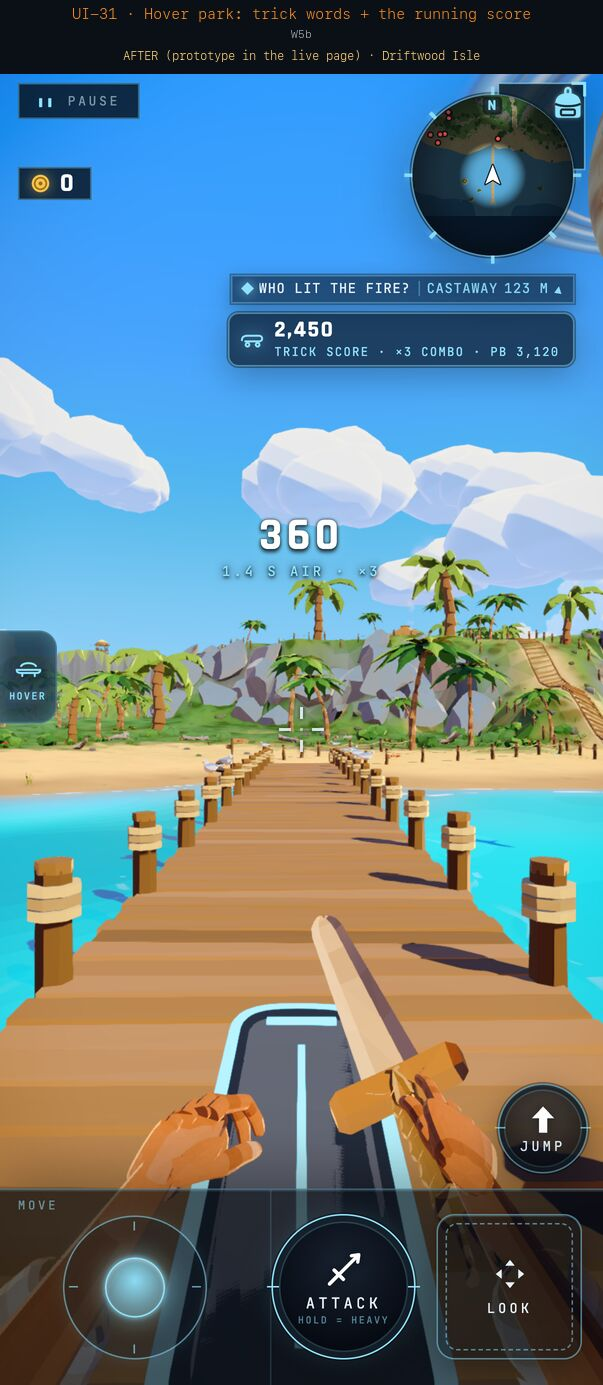
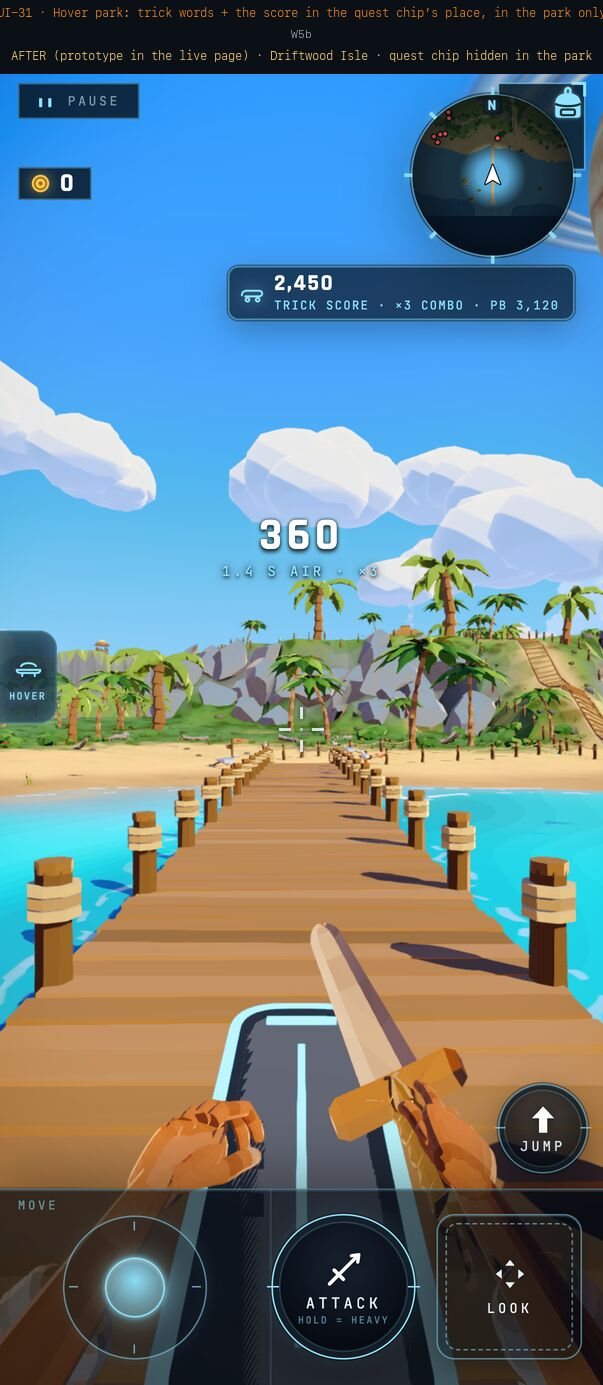
docs(kitchen-sink): trick score in quest chip slot
Jake: the hover park trick score is temporary UI like the course
clock, so it takes the quest chip's place in the park (UI-31 frame
redone for re-review). UI-03 level-up card approved. 13 approved,
25 pending.

Assisted-by: Claude-Code:claude-opus-5-5

diff --git a/art/showcase-template/round-12-ui/index.html b/art/showcase-template/round-12-ui/index.html
@@ -11,13 +11,13 @@ figcaption{font-size:11px;color:#9aa3a8;text-align:center;padding-top:3px}
 #z{position:fixed;inset:0;background:#000e;display:none;align-items:center;justify-content:center;touch-action:pinch-zoom}#z img{max-width:100vw;max-height:100vh;max-height:100dvh;width:auto;height:auto;object-fit:contain;display:block}
 </style></head><body><main><h1>Kitchen Sink v2 · every UI change, in engine</h1>
 <p>Round 12 (2026-11-03). Every frame is the real game on a phone in portrait, from a served build of main. BEFORE is the live page as it is today. AFTER is the same live page with the new element added, built from the engine's own HUD classes. Driftwood Isle's crabs, Wendell and Maren stand in for the showcase's robots and NPCs. The names and numbers are the showcase's. Nalati and Pine Hollow are used where their live component is the one the showcase extends. Only the personal-best board (a 3D sign) is a generated edit. Tap a frame to see it big.</p>
-<p>Each HUD change still needs your pick before it is built (the HUD rule). <b>Picks so far: 8 approved · 0 changes asked · 0 cut · 30 pending.</b></p>
+<p>Each HUD change still needs your pick before it is built (the HUD rule). <b>Picks so far: 13 approved · 0 changes asked · 0 cut · 25 pending.</b></p>
 <p><b>The 38, grouped by what kind of change each is:</b> 4 fight-HUD controls, 6 banners sharing one style, 3 chips sharing one slot, 3 end cards sharing one card, 5 menus, 7 small additions to existing screens, 2 world things, and 8 I'd suggest cutting (shown, not cut).</p>
 <nav class="toc"><a href="#s1">1 · New controls on the fight HUD (4)</a><a href="#s2">2 · Banners: one shared style (6)</a><a href="#s3">3 · The chip under the minimap: one at a time (3)</a><a href="#s4">4 · End cards: one shared card (3)</a><a href="#s5">5 · Menus (5)</a><a href="#s6">6 · Small additions to screens that already exist (7)</a><a href="#s7">7 · In the world, not HUD (2)</a><a href="#s8">8 · Could be cut (shown, nothing cut yet) (8)</a></nav>
 <h2 id="s1">1 · New controls on the fight HUD</h2><p>The only new things on screen all the time in a fight. Floating numbers already exist; the other three are new.</p><div class="pairs"><section class="pair"><h3><b class="st approved">APPROVED</b> UI-01 · XP bar + LV chip <span>new</span></h3><p>A thin bar on the touch bar’s top edge, &quot;LV 6&quot; and the XP at its left over MOVE. Hidden on every shard without levels.</p><p class="notes">Your notes: &quot;nice … good placement&quot;</p><div class="two"><figure><img loading="lazy" src="ui-01-xp-bar-before.jpg" alt="UI-01 before"><figcaption>BEFORE · live</figcaption></figure><figure><img loading="lazy" src="ui-01-xp-bar-after.jpg" alt="UI-01 after"><figcaption>AFTER · prototype</figcaption></figure></div></section><section class="pair"><h3><b class="st approved">APPROVED</b> UI-04 · Enemy nameplates within 25 m <span>extends Combat.ts</span></h3><p>&quot;Lv n Name&quot; in the con colour (grey, green, yellow, orange, red, skull), a stagger bar, burn / shock tint, a RARE tag. Crabs stand in for robots.</p><p class="notes">Your notes: &quot;looks good to me&quot;</p><div class="two"><figure><img loading="lazy" src="ui-04-nameplates-before.jpg" alt="UI-04 before"><figcaption>BEFORE · live</figcaption></figure><figure><img loading="lazy" src="ui-04-nameplates-after.jpg" alt="UI-04 after"><figcaption>AFTER · prototype</figcaption></figure></div></section><section class="pair"><h3><b class="st approved">APPROVED</b> UI-05 · Floating combat text <span>extends Combat.ts</span></h3><p>A big yellow crit, a small grey glance, the DEFLECT and PARRY words, red −12 and DODGE by your vitals. Six on screen, the cap.</p><p class="notes">Your notes: &quot;looks good to me&quot;</p><div class="two"><figure><img loading="lazy" src="ui-05-floating-text-before.jpg" alt="UI-05 before"><figcaption>BEFORE · live</figcaption></figure><figure><img loading="lazy" src="ui-05-floating-text-after.jpg" alt="UI-05 after"><figcaption>AFTER · prototype</figcaption></figure></div></section><section class="pair"><h3><b class="st approved">APPROVED</b> UI-06 · GUARD button (D6) <span>new</span></h3><p>Four in a row: GUARD · LOCK · DODGE · JUMP, GUARD in the slot the spear’s THROW takes, only while the sword is held; its rim lights in the parry window.</p><p class="notes">Your notes: &quot;I think that's okay&quot;; then &quot;four in a row, approved&quot;: GUARD · LOCK · DODGE · JUMP, GUARD in the slot the spear's THROW takes (frame redone)</p><div class="two"><figure><img loading="lazy" src="ui-06-guard-button-before.jpg" alt="UI-06 before"><figcaption>BEFORE · live</figcaption></figure><figure><img loading="lazy" src="ui-06-guard-button-after.jpg" alt="UI-06 after"><figcaption>AFTER · prototype</figcaption></figure></div></section></div>
-<h2 id="s2">2 · Banners: one shared style</h2><p>Short messages across the screen that never block play. Built once, filled in by six moments.</p><div class="pairs"><section class="pair"><h3><b class="st approved">APPROVED</b> UI-02 · Level-up in a fight <span>new</span></h3><p>Never blocks: a ring off the chip, the chip flips to LV 7, one gain line above it, HP refilled (VITALS 31 → 179).</p><p class="notes">Your notes: &quot;Yeah, sure&quot;</p><div class="two"><figure><img loading="lazy" src="ui-02-levelup-fight-before.jpg" alt="UI-02 before"><figcaption>BEFORE · live</figcaption></figure><figure><img loading="lazy" src="ui-02-levelup-fight-after.jpg" alt="UI-02 after"><figcaption>AFTER · prototype</figcaption></figure></div></section><section class="pair"><h3><b class="st approved">APPROVED</b> UI-07 · Named elite: NAMED ELITE · LV 6 <span>extends EliteBar</span></h3><p>Nalati’s real banner and pinned bar, with the showcase’s Big Pallet and an LV tag.</p><p class="notes">Your notes: &quot;looks very similar … nice&quot;</p><div class="two"><figure><img loading="lazy" src="ui-07-elite-banner-before.jpg" alt="UI-07 before"><figcaption>BEFORE · live</figcaption></figure><figure><img loading="lazy" src="ui-07-elite-banner-after.jpg" alt="UI-07 after"><figcaption>AFTER · prototype</figcaption></figure></div></section><section class="pair"><h3><b class="st pending">PENDING</b> UI-24 · Gauntlet wave banner <span>new</span></h3><p>WAVE 2 / 5 big in the middle as a wave starts, in the boundary warning’s type, fading after ~2 s. Nothing stays on screen.</p><p class="notes">Your notes: 2026-11-03, redone for re-review (WAVE 2 / 5 in the middle only, fades; no chip): keep &quot;WAVE 2 / 5&quot; big in the middle of the screen when a wave starts (&quot;kind of cool&quot;); drop the wave chip that stays under the quest chip: &quot;too fucking busy … we can't have those permanent banners&quot;</p><div class="two"><figure><img loading="lazy" src="ui-24-wave-banner-before.jpg" alt="UI-24 before"><figcaption>BEFORE · live</figcaption></figure><figure><img loading="lazy" src="ui-24-wave-banner-after.jpg" alt="UI-24 after"><figcaption>AFTER · prototype</figcaption></figure></div></section><section class="pair"><h3><b class="st approved">APPROVED</b> UI-26 · Boss intro title card <span>content only</span></h3><p>The real letterbox, name card and HOLD TO SKIP ring: THE CRATE TITAN · LV 20.</p><p class="notes">Your notes: &quot;fine … looks fine&quot;</p><div class="two"><figure><img loading="lazy" src="ui-26-cutscene-card-before.jpg" alt="UI-26 before"><figcaption>BEFORE · live</figcaption></figure><figure><img loading="lazy" src="ui-26-cutscene-card-after.jpg" alt="UI-26 after"><figcaption>AFTER · prototype</figcaption></figure></div></section><section class="pair"><h3><b class="st pending">PENDING</b> UI-22 · Storm hour <span>the wave banner’s line</span></h3><p>One centred line as the hour starts, fading after ~2 s; lighting a beacon flashes BEACON 2 / 4 the same way. No minimap beacons, no toast; the storm chip is today’s.</p><p class="notes">Your notes: 2026-11-03, redone for re-review: &quot;way too busy … the beacons on the minimap is way too busy … a really more minimalist, lightweight&quot; one; now one centred STORM HOUR line that fades, no minimap beacons, no toast, the storm chip unchanged</p><div class="two"><figure><img loading="lazy" src="ui-22-storm-hour-before.jpg" alt="UI-22 before"><figcaption>BEFORE · live</figcaption></figure><figure><img loading="lazy" src="ui-22-storm-hour-after.jpg" alt="UI-22 after"><figcaption>AFTER · prototype</figcaption></figure></div></section><section class="pair"><h3><b class="st approved">APPROVED</b> UI-17 · Checkpoint card (QC6) <span>new</span></h3><p>A quest leg done and saved: the reward caption’s type with a CHECKPOINT SAVED tick.</p><p class="notes">Your notes: &quot;Yeah, cool. Let's do it.&quot;</p><div class="two"><figure><img loading="lazy" src="ui-17-checkpoint-card-before.jpg" alt="UI-17 before"><figcaption>BEFORE · live</figcaption></figure><figure><img loading="lazy" src="ui-17-checkpoint-card-after.jpg" alt="UI-17 after"><figcaption>AFTER · prototype</figcaption></figure></div></section></div>
-<h2 id="s3">3 · The chip under the minimap: one at a time</h2><p>A single timer or counter slot that shows only during a run. Built once; this also settles the crowded slot.</p><div class="pairs"><section class="pair"><h3><b class="st pending">PENDING</b> UI-20 · Course clock chip (D22) <span>reuses the weather chip</span></h3><p>Only during a run, in the quest chip’s place (the quest chip hides and comes back when the run ends): time, checkpoint, PB.</p><p class="notes">Your notes: 2026-11-03, redone for re-review: &quot;it can hide the quest chip whilst it's showing the course clock … when we're done … show the quest chip again … not be so busy&quot;; the clock now takes the quest chip's place</p><div class="two"><figure><img loading="lazy" src="ui-20-course-clock-before.jpg" alt="UI-20 before"><figcaption>BEFORE · live</figcaption></figure><figure><img loading="lazy" src="ui-20-course-clock-after.jpg" alt="UI-20 after"><figcaption>AFTER · prototype</figcaption></figure></div></section><section class="pair"><h3><b class="st pending">PENDING</b> UI-29 · Training Vault sealed room <span>new</span></h3><p>ROOM 2/4 · 3 left, and the seal toast.</p><p class="notes">Your notes: &quot;way too busy … hide the rest of the quest … a dungeon specific quest chip, but like just one … I need new ideas&quot;. Options board ui-29-board.jpg: A the vault's own quest chip (recommended), B nothing stays (ROOM 2 / 4 flashes), C room pips only</p><div class="two"><figure><img loading="lazy" src="ui-29-vault-room-before.jpg" alt="UI-29 before"><figcaption>BEFORE · live</figcaption></figure><figure><img loading="lazy" src="ui-29-vault-room-after.jpg" alt="UI-29 after"><figcaption>AFTER · prototype</figcaption></figure></div><p class="notes">New options (A · B · C), all hiding the tracked quest inside the vault:</p><figure><img loading="lazy" src="ui-29-board.jpg" alt="UI-29 options"><figcaption>A · the vault’s own quest chip · B · nothing stays · C · room pips only</figcaption></figure></section><section class="pair"><h3><b class="st pending">PENDING</b> UI-31 · Hover park trick score <span>new</span></h3><p>A trick word over the board and the running score chip.</p><div class="two"><figure><img loading="lazy" src="ui-31-trick-score-before.jpg" alt="UI-31 before"><figcaption>BEFORE · live</figcaption></figure><figure><img loading="lazy" src="ui-31-trick-score-after.jpg" alt="UI-31 after"><figcaption>AFTER · prototype</figcaption></figure></div></section></div>
-<h2 id="s4">4 · End cards: one shared card</h2><p>A full card after something finishes, only out of combat.</p><div class="pairs"><section class="pair"><h3><b class="st pending">PENDING</b> UI-03 · Level-up card, out of combat <span>new</span></h3><p>After 5 s calm: each gain ticks up in turn, gold on a big roll, grey on +0, TAP TO SKIP.</p><div class="two"><figure><img loading="lazy" src="ui-03-levelup-card-before.jpg" alt="UI-03 before"><figcaption>BEFORE · live</figcaption></figure><figure><img loading="lazy" src="ui-03-levelup-card-after.jpg" alt="UI-03 after"><figcaption>AFTER · prototype</figcaption></figure></div></section><section class="pair"><h3><b class="st pending">PENDING</b> UI-19 · Shard-complete card <span>content only</span></h3><p>The real card with the Titan Cleaver and the showcase’s stats.</p><div class="two"><figure><img loading="lazy" src="ui-19-shard-complete-before.jpg" alt="UI-19 before"><figcaption>BEFORE · live</figcaption></figure><figure><img loading="lazy" src="ui-19-shard-complete-after.jpg" alt="UI-19 after"><figcaption>AFTER · prototype</figcaption></figure></div></section><section class="pair"><h3><b class="st pending">PENDING</b> UI-30 · SHRINE COMPLETE card <span>reuses the complete card</span></h3><p>Time, best, deaths, rooms, the chest and the trophy.</p><div class="two"><figure><img loading="lazy" src="ui-30-shrine-complete-before.jpg" alt="UI-30 before"><figcaption>BEFORE · live</figcaption></figure><figure><img loading="lazy" src="ui-30-shrine-complete-after.jpg" alt="UI-30 after"><figcaption>AFTER · prototype</figcaption></figure></div></section></div>
+<h2 id="s2">2 · Banners: one shared style</h2><p>Short messages across the screen that never block play. Built once, filled in by six moments.</p><div class="pairs"><section class="pair"><h3><b class="st approved">APPROVED</b> UI-02 · Level-up in a fight <span>new</span></h3><p>Never blocks: a ring off the chip, the chip flips to LV 7, one gain line above it, HP refilled (VITALS 31 → 179).</p><p class="notes">Your notes: &quot;Yeah, sure&quot;</p><div class="two"><figure><img loading="lazy" src="ui-02-levelup-fight-before.jpg" alt="UI-02 before"><figcaption>BEFORE · live</figcaption></figure><figure><img loading="lazy" src="ui-02-levelup-fight-after.jpg" alt="UI-02 after"><figcaption>AFTER · prototype</figcaption></figure></div></section><section class="pair"><h3><b class="st approved">APPROVED</b> UI-07 · Named elite: NAMED ELITE · LV 6 <span>extends EliteBar</span></h3><p>Nalati’s real banner and pinned bar, with the showcase’s Big Pallet and an LV tag.</p><p class="notes">Your notes: &quot;looks very similar … nice&quot;</p><div class="two"><figure><img loading="lazy" src="ui-07-elite-banner-before.jpg" alt="UI-07 before"><figcaption>BEFORE · live</figcaption></figure><figure><img loading="lazy" src="ui-07-elite-banner-after.jpg" alt="UI-07 after"><figcaption>AFTER · prototype</figcaption></figure></div></section><section class="pair"><h3><b class="st approved">APPROVED</b> UI-24 · Gauntlet wave banner <span>new</span></h3><p>WAVE 2 / 5 big in the middle as a wave starts, in the boundary warning’s type, fading after ~2 s. Nothing stays on screen.</p><p class="notes">Your notes: redone frame approved, &quot;UI 24 looks good&quot; (WAVE 2 / 5 in the middle only, fades; no chip). First round: keep &quot;WAVE 2 / 5&quot; big in the middle of the screen when a wave starts (&quot;kind of cool&quot;); drop the wave chip that stays under the quest chip: &quot;too fucking busy … we can't have those permanent banners&quot;</p><div class="two"><figure><img loading="lazy" src="ui-24-wave-banner-before.jpg" alt="UI-24 before"><figcaption>BEFORE · live</figcaption></figure><figure><img loading="lazy" src="ui-24-wave-banner-after.jpg" alt="UI-24 after"><figcaption>AFTER · prototype</figcaption></figure></div></section><section class="pair"><h3><b class="st approved">APPROVED</b> UI-26 · Boss intro title card <span>content only</span></h3><p>The real letterbox, name card and HOLD TO SKIP ring: THE CRATE TITAN · LV 20.</p><p class="notes">Your notes: &quot;fine … looks fine&quot;</p><div class="two"><figure><img loading="lazy" src="ui-26-cutscene-card-before.jpg" alt="UI-26 before"><figcaption>BEFORE · live</figcaption></figure><figure><img loading="lazy" src="ui-26-cutscene-card-after.jpg" alt="UI-26 after"><figcaption>AFTER · prototype</figcaption></figure></div></section><section class="pair"><h3><b class="st approved">APPROVED</b> UI-22 · Storm hour <span>the wave banner’s line</span></h3><p>One centred line as the hour starts, fading after ~2 s; lighting a beacon flashes BEACON 2 / 4 the same way. No minimap beacons, no toast; the storm chip is today’s.</p><p class="notes">Your notes: redone frame approved, &quot;UI 22 looks good&quot;. First round: &quot;way too busy … the beacons on the minimap is way too busy … a really more minimalist, lightweight&quot; one; now one centred STORM HOUR line that fades, no minimap beacons, no toast, the storm chip unchanged</p><div class="two"><figure><img loading="lazy" src="ui-22-storm-hour-before.jpg" alt="UI-22 before"><figcaption>BEFORE · live</figcaption></figure><figure><img loading="lazy" src="ui-22-storm-hour-after.jpg" alt="UI-22 after"><figcaption>AFTER · prototype</figcaption></figure></div></section><section class="pair"><h3><b class="st approved">APPROVED</b> UI-17 · Checkpoint card (QC6) <span>new</span></h3><p>A quest leg done and saved: the reward caption’s type with a CHECKPOINT SAVED tick.</p><p class="notes">Your notes: &quot;Yeah, cool. Let's do it.&quot;</p><div class="two"><figure><img loading="lazy" src="ui-17-checkpoint-card-before.jpg" alt="UI-17 before"><figcaption>BEFORE · live</figcaption></figure><figure><img loading="lazy" src="ui-17-checkpoint-card-after.jpg" alt="UI-17 after"><figcaption>AFTER · prototype</figcaption></figure></div></section></div>
+<h2 id="s3">3 · The chip under the minimap: one at a time</h2><p>A single timer or counter slot that shows only during a run. Built once; this also settles the crowded slot.</p><div class="pairs"><section class="pair"><h3><b class="st approved">APPROVED</b> UI-20 · Course clock chip (D22) <span>reuses the weather chip</span></h3><p>Only during a run, in the quest chip’s place (the quest chip hides and comes back when the run ends): time, checkpoint, PB.</p><p class="notes">Your notes: redone frame approved, &quot;UI 20 looks good&quot;. First round: &quot;it can hide the quest chip whilst it's showing the course clock … when we're done … show the quest chip again … not be so busy&quot;; the clock now takes the quest chip's place</p><div class="two"><figure><img loading="lazy" src="ui-20-course-clock-before.jpg" alt="UI-20 before"><figcaption>BEFORE · live</figcaption></figure><figure><img loading="lazy" src="ui-20-course-clock-after.jpg" alt="UI-20 after"><figcaption>AFTER · prototype</figcaption></figure></div></section><section class="pair"><h3><b class="st approved">APPROVED</b> UI-29 · Training Vault sealed room <span>new</span></h3><p>Picked A: inside the vault the tracked quest hides and one chip takes its place, TRAINING VAULT | ROOM 2/4 · 3 LEFT; the quest chip comes back when you leave.</p><p class="notes">Your notes: &quot;way too busy … hide the rest of the quest … a dungeon specific quest chip, but like just one … I need new ideas&quot;; then &quot;we can pick A for the UI 29, the vault stuff&quot;. **A:** inside the vault the tracked quest hides and one chip takes its place, TRAINING VAULT · ROOM 2/4 · 3 LEFT; the quest chip comes back on leaving (ui-29-opt-a.jpg)</p><div class="two"><figure><img loading="lazy" src="ui-29-vault-room-before.jpg" alt="UI-29 before"><figcaption>BEFORE · live</figcaption></figure><figure><img loading="lazy" src="ui-29-opt-a.jpg" alt="UI-29 after"><figcaption>AFTER · prototype</figcaption></figure></div><p class="notes">The options you chose from (you picked A):</p><figure><img loading="lazy" src="ui-29-board.jpg" alt="UI-29 options"><figcaption>A · the vault’s own quest chip · B · nothing stays · C · room pips only</figcaption></figure></section><section class="pair"><h3><b class="st pending">PENDING</b> UI-31 · Hover park trick score <span>new</span></h3><p>A trick word over the board; the running score takes the quest chip’s place while you’re in the park.</p><p class="notes">Your notes: 2026-11-03, redone for re-review: &quot;the same kind of temporary UI … the timed racing … when we show that kind of UI, we want to hide the normal quest UI … make it tidier&quot;; the trick score now takes the quest chip's place in the park</p><div class="two"><figure><img loading="lazy" src="ui-31-trick-score-before.jpg" alt="UI-31 before"><figcaption>BEFORE · live</figcaption></figure><figure><img loading="lazy" src="ui-31-trick-score-after.jpg" alt="UI-31 after"><figcaption>AFTER · prototype</figcaption></figure></div></section></div>
+<h2 id="s4">4 · End cards: one shared card</h2><p>A full card after something finishes, only out of combat.</p><div class="pairs"><section class="pair"><h3><b class="st approved">APPROVED</b> UI-03 · Level-up card, out of combat <span>new</span></h3><p>After 5 s calm: each gain ticks up in turn, gold on a big roll, grey on +0, TAP TO SKIP.</p><p class="notes">Your notes: &quot;UI 03 looks good to me&quot;</p><div class="two"><figure><img loading="lazy" src="ui-03-levelup-card-before.jpg" alt="UI-03 before"><figcaption>BEFORE · live</figcaption></figure><figure><img loading="lazy" src="ui-03-levelup-card-after.jpg" alt="UI-03 after"><figcaption>AFTER · prototype</figcaption></figure></div></section><section class="pair"><h3><b class="st pending">PENDING</b> UI-19 · Shard-complete card <span>content only</span></h3><p>The real card with the Titan Cleaver and the showcase’s stats.</p><div class="two"><figure><img loading="lazy" src="ui-19-shard-complete-before.jpg" alt="UI-19 before"><figcaption>BEFORE · live</figcaption></figure><figure><img loading="lazy" src="ui-19-shard-complete-after.jpg" alt="UI-19 after"><figcaption>AFTER · prototype</figcaption></figure></div></section><section class="pair"><h3><b class="st pending">PENDING</b> UI-30 · SHRINE COMPLETE card <span>reuses the complete card</span></h3><p>Time, best, deaths, rooms, the chest and the trophy.</p><div class="two"><figure><img loading="lazy" src="ui-30-shrine-complete-before.jpg" alt="UI-30 before"><figcaption>BEFORE · live</figcaption></figure><figure><img loading="lazy" src="ui-30-shrine-complete-after.jpg" alt="UI-30 after"><figcaption>AFTER · prototype</figcaption></figure></div></section></div>
 <h2 id="s5">5 · Menus</h2><p>Screens you open. Two extend an existing shop screen, one extends Pine’s board.</p><div class="pairs"><section class="pair"><h3><b class="st pending">PENDING</b> UI-10 · Character tab (read-only) <span>new tab</span></h3><p>Bag ▸ CHARACTER: level and XP, the seven attributes against par, ▲▼ aptitude, what each does, the derived numbers.</p><div class="two"><figure><img loading="lazy" src="ui-10-character-tab-before.jpg" alt="UI-10 before"><figcaption>BEFORE · live</figcaption></figure><figure><img loading="lazy" src="ui-10-character-tab-after.jpg" alt="UI-10 after"><figcaption>AFTER · prototype</figcaption></figure></div></section><section class="pair"><h3><b class="st pending">PENDING</b> UI-14 · Quest list on the map tab (D13, D14) <span>new</span></h3><p>All twelve active, one tracked (feeds the HUD chip), the tracked quest’s card under the list.</p><div class="two"><figure><img loading="lazy" src="ui-14-quest-list-before.jpg" alt="UI-14 before"><figcaption>BEFORE · live</figcaption></figure><figure><img loading="lazy" src="ui-14-quest-list-after.jpg" alt="UI-14 after"><figcaption>AFTER · prototype</figcaption></figure></div></section><section class="pair"><h3><b class="st pending">PENDING</b> UI-16 · Kill-contract board, fixed mode <span>extends Pine’s board</span></h3><p>Level-locked rows, first-time trophy and joke title.</p><div class="two"><figure><img loading="lazy" src="ui-16-contract-board-before.jpg" alt="UI-16 before"><figcaption>BEFORE · live</figcaption></figure><figure><img loading="lazy" src="ui-16-contract-board-after.jpg" alt="UI-16 after"><figcaption>AFTER · prototype</figcaption></figure></div></section><section class="pair"><h3><b class="st pending">PENDING</b> UI-32 · Tinker Rook: UPGRADES / BENCH <span>extends ShopPanel</span></h3><p>Two tabs, Scrip and parts on every tile, LV tags and locks.</p><div class="two"><figure><img loading="lazy" src="ui-32-upgrades-bench-before.jpg" alt="UI-32 before"><figcaption>BEFORE · live</figcaption></figure><figure><img loading="lazy" src="ui-32-upgrades-bench-after.jpg" alt="UI-32 after"><figcaption>AFTER · prototype</figcaption></figure></div></section><section class="pair"><h3><b class="st pending">PENDING</b> UI-33 · The weapons shop <span>extends ShopPanel</span></h3><p>Weapons bought, locked by level (the rifle at LV 10).</p><div class="two"><figure><img loading="lazy" src="ui-33-weapons-shop-before.jpg" alt="UI-33 before"><figcaption>BEFORE · live</figcaption></figure><figure><img loading="lazy" src="ui-33-weapons-shop-after.jpg" alt="UI-33 after"><figcaption>AFTER · prototype</figcaption></figure></div></section></div>
 <h2 id="s6">6 · Small additions to screens that already exist</h2><p>A line, a number or a label on something already in the game. No new control.</p><div class="pairs"><section class="pair"><h3><b class="st pending">PENDING</b> UI-13 · REQUIRES LV 7 in the dialogue <span>extends the talk panel</span></h3><p>The real dialogue panel with a quest row and a locked accept button.</p><div class="two"><figure><img loading="lazy" src="ui-13-requires-level-before.jpg" alt="UI-13 before"><figcaption>BEFORE · live</figcaption></figure><figure><img loading="lazy" src="ui-13-requires-level-after.jpg" alt="UI-13 after"><figcaption>AFTER · prototype</figcaption></figure></div></section><section class="pair"><h3><b class="st pending">PENDING</b> UI-09 · Death card + XP loss <span>extends DeathFade</span></h3><p>The same card with one more line: −340 XP, 25 % of level 7, never below level 7.</p><div class="two"><figure><img loading="lazy" src="ui-09-death-card-before.jpg" alt="UI-09 before"><figcaption>BEFORE · live</figcaption></figure><figure><img loading="lazy" src="ui-09-death-card-after.jpg" alt="UI-09 after"><figcaption>AFTER · prototype</figcaption></figure></div></section><section class="pair"><h3><b class="st pending">PENDING</b> UI-34 · The 20-slot pack <span>extends PACK</span></h3><p>One slot a kind, never full; unfound kinds as dashed silhouettes.</p><div class="two"><figure><img loading="lazy" src="ui-34-pack-20-before.jpg" alt="UI-34 before"><figcaption>BEFORE · live</figcaption></figure><figure><img loading="lazy" src="ui-34-pack-20-after.jpg" alt="UI-34 after"><figcaption>AFTER · prototype</figcaption></figure></div></section><section class="pair"><h3><b class="st pending">PENDING</b> UI-35 · Ammo pouch + picker (D17, D18) <span>extends BOLTS</span></h3><p>Pouch counters on the bolts chip; the weapon pie’s look on the BOLTS disc for iron / pitch / broadhead.</p><div class="two"><figure><img loading="lazy" src="ui-35-ammo-pouch-before.jpg" alt="UI-35 before"><figcaption>BEFORE · live</figcaption></figure><figure><img loading="lazy" src="ui-35-ammo-pouch-after.jpg" alt="UI-35 after"><figcaption>AFTER · prototype</figcaption></figure></div></section><section class="pair"><h3><b class="st pending">PENDING</b> UI-08 · Boss bar with phases <span>extends BossBar</span></h3><p>Today’s bar already has phase notches and the PHASE caption; the Crate Titan adds LV 20 and three phase pips.</p><div class="two"><figure><img loading="lazy" src="ui-08-boss-bar-before.jpg" alt="UI-08 before"><figcaption>BEFORE · live</figcaption></figure><figure><img loading="lazy" src="ui-08-boss-bar-after.jpg" alt="UI-08 after"><figcaption>AFTER · prototype</figcaption></figure></div></section><section class="pair"><h3><b class="st pending">PENDING</b> UI-23 · Stealth: UNSEEN <span>content only</span></h3><p>Nalati’s stealth layer; the hidden state’s label is data.</p><div class="two"><figure><img loading="lazy" src="ui-23-stealth-unseen-before.jpg" alt="UI-23 before"><figcaption>BEFORE · live</figcaption></figure><figure><img loading="lazy" src="ui-23-stealth-unseen-after.jpg" alt="UI-23 after"><figcaption>AFTER · prototype</figcaption></figure></div></section><section class="pair"><h3><b class="st pending">PENDING</b> UI-25 · Portal ENTER prompt <span>content only</span></h3><p>The real USE band, reading Enter the Training Vault.</p><div class="two"><figure><img loading="lazy" src="ui-25-portal-enter-before.jpg" alt="UI-25 before"><figcaption>BEFORE · live</figcaption></figure><figure><img loading="lazy" src="ui-25-portal-enter-after.jpg" alt="UI-25 after"><figcaption>AFTER · prototype</figcaption></figure></div></section></div>
 <h2 id="s7">7 · In the world, not HUD</h2><p>3D things in the level, seen like any other model.</p><div class="pairs"><section class="pair"><h3><b class="st pending">PENDING</b> UI-12 · Quest-giver ! markers <span>new</span></h3><p>Yellow ! when you can take the quest, grey ! when you are too low, both also on the minimap. Wendell and Maren stand in.</p><div class="two"><figure><img loading="lazy" src="ui-12-quest-givers-before.jpg" alt="UI-12 before"><figcaption>BEFORE · live</figcaption></figure><figure><img loading="lazy" src="ui-12-quest-givers-after.jpg" alt="UI-12 after"><figcaption>AFTER · prototype</figcaption></figure></div></section><section class="pair"><h3><b class="st pending">PENDING</b> UI-21 · Personal-best board <span>new world sign</span></h3><p>A 3D sign, so a codex edit of the world band only; the live HUD laid back on top pixel for pixel.</p><div class="two"><figure><img loading="lazy" src="ui-21-pb-board-before.jpg" alt="UI-21 before"><figcaption>BEFORE · live</figcaption></figure><figure><img loading="lazy" src="ui-21-pb-board-after.jpg" alt="UI-21 after"><figcaption>AFTER · prototype</figcaption></figure></div></section></div>

diff --git a/docs/plans/kitchen-sink-v2/STATE.md b/docs/plans/kitchen-sink-v2/STATE.md
@@ -18,4 +18,4 @@ and get redone on round 5: E11 (gauntlet), E13 / E14 / S06 (Titan arena), M03 (a
 **Decided 11-03:** Titan 15 m; the Titan road opens after the first gauntlet clear; wave-3 elite Shift Supervisor.
 
 **Open for Jake:** loot may be revisited; taller hover-park ramps; the 38 UI changes one by one in
-[UI-PICKS.md](UI-PICKS.md) (11-03: 12 approved, 26 pending).
+[UI-PICKS.md](UI-PICKS.md) (11-03: 13 approved, 25 pending).
